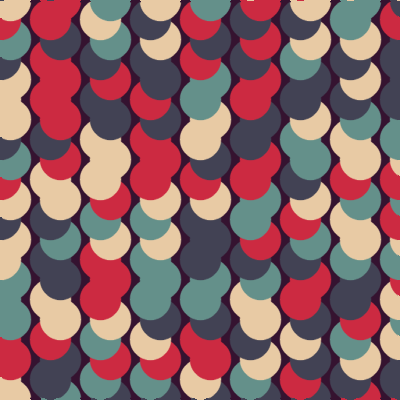
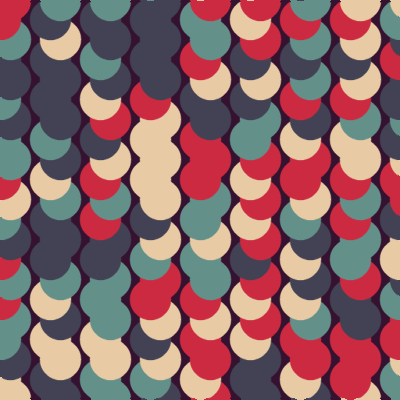
Fix bug by filling in missing value

diff --git a/pixelhouse/transform/simple.py b/pixelhouse/transform/simple.py
@@ -27,7 +27,8 @@ class translate(Artist):
         y = cvs.transform_length(self.y(t))
 
         M = np.float32([[1, 0, x], [0, 1, y]])
-        cvs._img = cv2.warpAffine(cvs.img, M, cvs.shape[:2])
+        cvs._img = cv2.warpAffine(cvs.img, M, cvs.shape[:2],
+                                 borderValue=cvs.bg)
 
 
 class rotate(Artist):
@@ -39,4 +40,5 @@ class rotate(Artist):
 
         cols, rows = cvs.shape[:2]
         M = cv2.getRotationMatrix2D((cols // 2, rows // 2), theta, 1)
-        cvs._img = cv2.warpAffine(cvs.img, M, (cols, rows))
+        cvs._img = cv2.warpAffine(cvs.img, M, (cols, rows),
+                                  borderValue=cvs.bg)

diff --git a/unincorporated_demos/triangle.py b/unincorporated_demos/triangle.py
@@ -1,14 +1,22 @@
 # A working file to test various aspects of the module
 import numpy as np
+import pixelhouse as ph
 from pixelhouse import Canvas, polyline, circle
+from pixelhouse.transform import rotate, translate
 
-c1 = Canvas(width=400, height=400, bg="white")
-c1(polyline(color="k"))
+pal = ph.ColorLoversPalette()(2)
 
-c2 = Canvas(width=400, height=400, bg="white")
-c2(circle(color="teal"))
+
+c1 = Canvas(width=400, height=400, bg=pal[0])
+c1(polyline(color='k'))
+
+c2 = Canvas(width=400, height=400, bg=pal[0])
+c2(circle(color=pal[2]))
 
 C = c1.blank()
 C += c2
 C += c1
+
+C += rotate(np.pi/4)
+C += translate(1.0)
 C.show()
